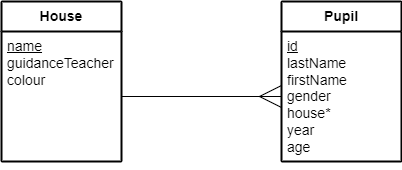
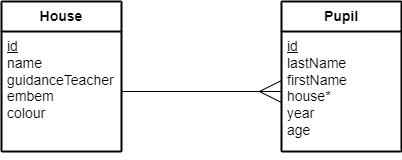
Updated

diff --git a/n5/ddd/N5-DDD-School-Houses/instructions2.md b/n5/ddd/N5-DDD-School-Houses/instructions2.md
@@ -1,31 +1,32 @@
-# N5 DDD School Houses Part 2
+# N5 DDD School Houses
 
 
 ## Entity Relationship Diagram (ERD)
 
-![ERD](assets/erd.png "ERD-HousePupil")
+![ERD](assets/Diagrams/ERD-HousePupil.png)
 
 
 ## Data Dictionary
 
 ### Entity: House
 
-| Attribute       | Key   | Type | Size  | Req'd | Validation |
-| ---------       | :---: | ---- | :---: | :---: | ---------- |
-| name            | PK    | Text | 15    | Y     |            |
-| guidanceTeacher |       | Text | 30    | N     |            |
-| colour          |       | Text | 15    | Y     |            |
+| Attribute       | Key   | Type   | Size  | Req'd | Validation |
+| ---------       | :---: | ----   | :---: | :---: | ---------- |
+| id              | PK    | Number |       | Y     | |
+| name            |       | Text   | 20    | Y     | |
+| guidanceTeacher |       | Text   | 30    | N     | |
+| emblem          |       | Text   | 10    | Y     | |
+| colour          |       | Text   | 20    | Y     | |
 
 
 ### Entity: Pupil
 
 | Attribute | Key   | Type   | Size  | Req'd | Validation |
 | --------- | :---: | ----   | :---: | :---: | ---------- |
-| id        | PK    | Text   | 10    | Y     |            |
-| lastName  |       | Text   | 30    | Y     |            |
-| firstName |       | Text   | 20    | Y     |            |
-| gender    |       | Text   | 10    | N     | Restricted choice: Female, Male, Not disclosed |
-| house     | FK    | Text   | 15    | Y     | Exists as name in House table |
+| id        | PK    | Text   | 10    | Y     | |
+| lastName  |       | Text   | 30    | Y     | |
+| firstName |       | Text   | 20    | Y     | |
+| house     | FK    | Number |       | Y     | Exists as id in House table |
 | year      |       | Text   | 5     | Y     | Restricted choice: S1, S2, S3, S4, S5, S6 |
 | age       |       | Number |       | Y     | Range: >= 11 and <= 18 |
 
